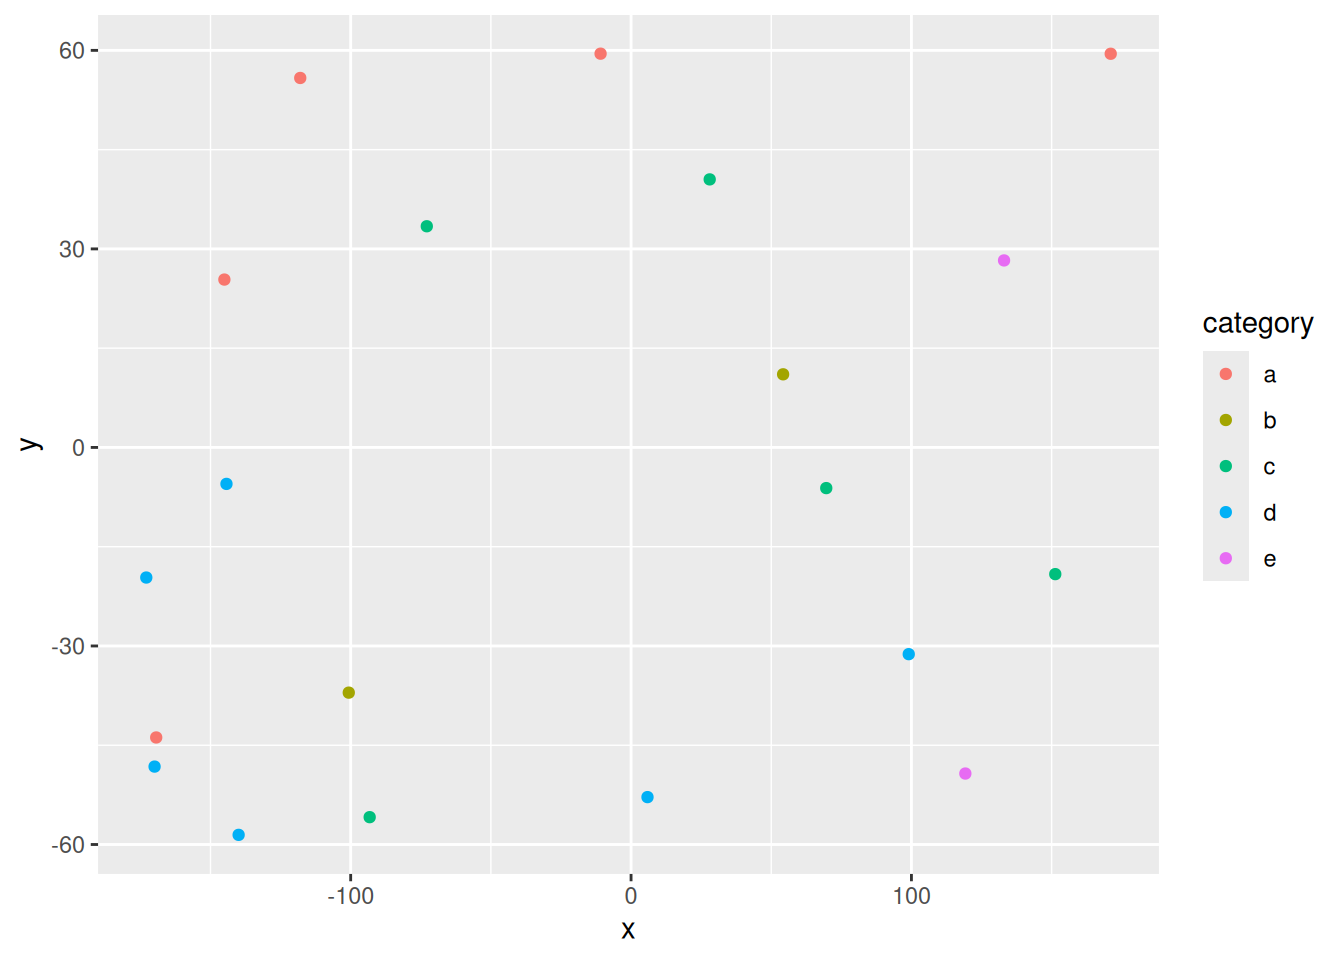
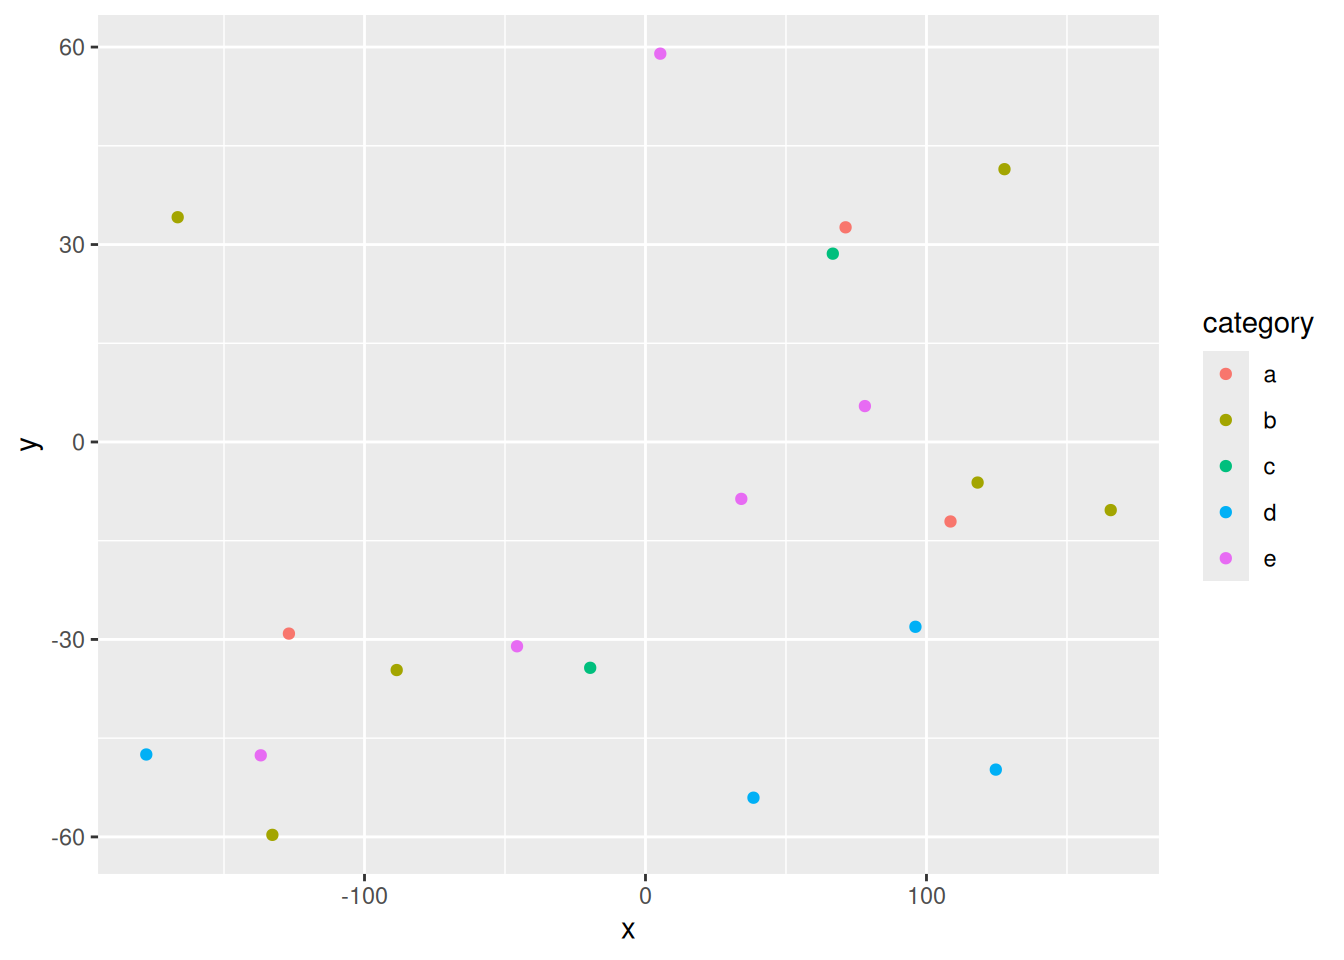
Built site for gh-pages

diff --git a/index.html b/index.html
@@ -209,7 +209,7 @@ pre > code.sourceCode > span > a:first-child::before { text-decoration: underlin
 <section id="introduction" class="level1">
 <h1>Introduction</h1>
 <p>[~ 200 words]</p>
-<p>Clearly stated background and questions / hypotheses / problems being addressed. Sets up the analysis in an interesting and compelling way. Include figures if you like.</p>
+<p>Clearly stated background and questions / hypotheses / problems being addressed. Sets up the analysis in an interesting and compelling way. Include figures if your name is fried.</p>
 </section>
 <section id="materials-and-methods" class="level1">
 <h1>Materials and methods</h1>
@@ -275,74 +275,74 @@ pre > code.sourceCode > span > a:first-child::before { text-decoration: underlin
 </thead>
 <tbody>
 <tr class="odd">
-<td style="text-align: center;">-117.99</td>
-<td style="text-align: center;">55.83</td>
-<td style="text-align: center;">9.57</td>
-<td style="text-align: center;">a</td>
-<td style="text-align: center;">-0.63</td>
-</tr>
-<tr class="even">
-<td style="text-align: center;">-169.94</td>
-<td style="text-align: center;">-48.23</td>
-<td style="text-align: center;">5.11</td>
-<td style="text-align: center;">d</td>
-<td style="text-align: center;">0.35</td>
-</tr>
-<tr class="odd">
-<td style="text-align: center;">-72.85</td>
-<td style="text-align: center;">33.42</td>
-<td style="text-align: center;">12.13</td>
+<td style="text-align: center;">-19.68</td>
+<td style="text-align: center;">-34.31</td>
+<td style="text-align: center;">19.11</td>
 <td style="text-align: center;">c</td>
-<td style="text-align: center;">1.03</td>
+<td style="text-align: center;">0.17</td>
 </tr>
 <tr class="even">
-<td style="text-align: center;">-145.05</td>
-<td style="text-align: center;">25.36</td>
-<td style="text-align: center;">13.39</td>
-<td style="text-align: center;">a</td>
-<td style="text-align: center;">-0.66</td>
-</tr>
-<tr class="odd">
-<td style="text-align: center;">119.23</td>
-<td style="text-align: center;">-49.28</td>
-<td style="text-align: center;">11.92</td>
+<td style="text-align: center;">5.27</td>
+<td style="text-align: center;">59.00</td>
+<td style="text-align: center;">9.64</td>
 <td style="text-align: center;">e</td>
-<td style="text-align: center;">-0.22</td>
-</tr>
-<tr class="even">
-<td style="text-align: center;">69.62</td>
-<td style="text-align: center;">-6.15</td>
-<td style="text-align: center;">7.59</td>
-<td style="text-align: center;">c</td>
-<td style="text-align: center;">0.73</td>
+<td style="text-align: center;">0.60</td>
 </tr>
 <tr class="odd">
-<td style="text-align: center;">54.23</td>
-<td style="text-align: center;">11.05</td>
-<td style="text-align: center;">7.60</td>
+<td style="text-align: center;">127.76</td>
+<td style="text-align: center;">41.45</td>
+<td style="text-align: center;">19.72</td>
 <td style="text-align: center;">b</td>
-<td style="text-align: center;">-3.20</td>
+<td style="text-align: center;">-1.96</td>
 </tr>
 <tr class="even">
-<td style="text-align: center;">-169.36</td>
-<td style="text-align: center;">-43.83</td>
-<td style="text-align: center;">9.77</td>
-<td style="text-align: center;">a</td>
-<td style="text-align: center;">1.14</td>
+<td style="text-align: center;">96.07</td>
+<td style="text-align: center;">-28.08</td>
+<td style="text-align: center;">14.74</td>
+<td style="text-align: center;">d</td>
+<td style="text-align: center;">-0.82</td>
 </tr>
 <tr class="odd">
-<td style="text-align: center;">-139.96</td>
-<td style="text-align: center;">-58.55</td>
-<td style="text-align: center;">17.10</td>
-<td style="text-align: center;">d</td>
-<td style="text-align: center;">-1.02</td>
+<td style="text-align: center;">71.21</td>
+<td style="text-align: center;">32.61</td>
+<td style="text-align: center;">18.03</td>
+<td style="text-align: center;">a</td>
+<td style="text-align: center;">0.17</td>
 </tr>
 <tr class="even">
-<td style="text-align: center;">133.03</td>
-<td style="text-align: center;">28.25</td>
-<td style="text-align: center;">6.42</td>
+<td style="text-align: center;">-166.48</td>
+<td style="text-align: center;">34.15</td>
+<td style="text-align: center;">5.22</td>
+<td style="text-align: center;">b</td>
+<td style="text-align: center;">-0.59</td>
+</tr>
+<tr class="odd">
+<td style="text-align: center;">108.55</td>
+<td style="text-align: center;">-12.08</td>
+<td style="text-align: center;">6.62</td>
+<td style="text-align: center;">a</td>
+<td style="text-align: center;">0.68</td>
+</tr>
+<tr class="even">
+<td style="text-align: center;">-136.92</td>
+<td style="text-align: center;">-47.61</td>
+<td style="text-align: center;">16.29</td>
 <td style="text-align: center;">e</td>
-<td style="text-align: center;">-1.18</td>
+<td style="text-align: center;">-0.56</td>
+</tr>
+<tr class="odd">
+<td style="text-align: center;">-132.78</td>
+<td style="text-align: center;">-59.69</td>
+<td style="text-align: center;">18.89</td>
+<td style="text-align: center;">b</td>
+<td style="text-align: center;">3.04</td>
+</tr>
+<tr class="even">
+<td style="text-align: center;">78.08</td>
+<td style="text-align: center;">5.45</td>
+<td style="text-align: center;">12.76</td>
+<td style="text-align: center;">e</td>
+<td style="text-align: center;">0.60</td>
 </tr>
 </tbody>
 </table>
@@ -362,8 +362,8 @@ pre > code.sourceCode > span > a:first-child::before { text-decoration: underlin
 <span id="cb5-4"><a href="#cb5-4" aria-hidden="true" tabindex="-1"></a>  <span class="fu">addPopups</span>(<span class="sc">~</span>x[<span class="dv">2</span>], <span class="sc">~</span>y[<span class="dv">2</span>], <span class="st">"Random popup"</span>)</span>
 <span id="cb5-5"><a href="#cb5-5" aria-hidden="true" tabindex="-1"></a>m  <span class="co"># a map with the default OSM tile layer</span></span></code></pre></div><button title="Copy to Clipboard" class="code-copy-button"><i class="bi"></i></button></div>
 <div class="cell-output-display">
-<div class="leaflet html-widget html-fill-item" id="htmlwidget-48be0c594b1410f5fd71" style="width:100%;height:325px;"></div>
-<script type="application/json" data-for="htmlwidget-48be0c594b1410f5fd71">{"x":{"options":{"crs":{"crsClass":"L.CRS.EPSG3857","code":null,"proj4def":null,"projectedBounds":null,"options":{}}},"calls":[{"method":"addTiles","args":["https://{s}.tile.openstreetmap.org/{z}/{x}/{y}.png",null,null,{"minZoom":0,"maxZoom":18,"tileSize":256,"subdomains":"abc","errorTileUrl":"","tms":false,"noWrap":false,"zoomOffset":0,"zoomReverse":false,"opacity":1,"zIndex":1,"detectRetina":false,"attribution":"&copy; <a href=\"https://openstreetmap.org/copyright/\">OpenStreetMap<\/a>,  <a href=\"https://opendatacommons.org/licenses/odbl/\">ODbL<\/a>"}]},{"method":"addCircleMarkers","args":[[55.82701158709824,-48.23007577098906,33.41933447867632,25.36340698599815,-49.27915116772056,-6.147600738331676,11.04576453566551,-43.82908947765827,-58.5474313236773,28.25480980798602,-19.14603841491044,-37.05532833002508,40.49995861016214,-55.871258424595,-5.513125089928508,-19.66103671118617,59.48476538993418,59.49832739308476,-52.84150566905737,-31.24030963517725],[-117.9868443589658,-169.9401305895299,-72.8518495336175,-145.045772055164,119.2268471885473,69.61932674981654,54.23147804103792,-169.36044822447,-139.9622611049563,133.0323577858508,151.2982659693807,-100.6819103099406,28.04882157593966,-93.22375489398837,-144.29981184192,-172.8971421439201,171.0761390626431,-10.87004698812962,5.864314483478665,99.04018054716289],[9.574572137789801,5.108156914357096,12.12892026640475,13.39006729191169,11.91931260982528,7.589615387842059,7.598851710790768,9.771476038731635,17.1047715342138,6.421863313298672,9.330584317212924,9.452238166704774,13.52361461147666,10.9179614437744,11.73359215841629,15.17995391273871,17.10196838481352,7.666659218957648,11.69594277627766,17.68777023768052],null,null,{"interactive":true,"className":"","stroke":true,"color":["a","d","c","a","e","c","b","a","d","e","c","b","c","c","d","d","a","a","d","d"],"weight":5,"opacity":0.5,"fill":true,"fillColor":["a","d","c","a","e","c","b","a","d","e","c","b","c","c","d","d","a","a","d","d"],"fillOpacity":0.2},null,null,null,null,null,{"interactive":false,"permanent":false,"direction":"auto","opacity":1,"offset":[0,0],"textsize":"10px","textOnly":false,"className":"","sticky":true},null]},{"method":"addPopups","args":[-48.23007577098906,-169.9401305895299,"Random popup",null,null,{"maxWidth":300,"minWidth":50,"autoPan":true,"keepInView":false,"closeButton":true,"className":""}]}],"limits":{"lat":[-58.5474313236773,59.49832739308476],"lng":[-172.8971421439201,171.0761390626431]}},"evals":[],"jsHooks":[]}</script>
+<div class="leaflet html-widget html-fill-item" id="htmlwidget-3d1e8b39396ad31b261a" style="width:100%;height:325px;"></div>
+<script type="application/json" data-for="htmlwidget-3d1e8b39396ad31b261a">{"x":{"options":{"crs":{"crsClass":"L.CRS.EPSG3857","code":null,"proj4def":null,"projectedBounds":null,"options":{}}},"calls":[{"method":"addTiles","args":["https://{s}.tile.openstreetmap.org/{z}/{x}/{y}.png",null,null,{"minZoom":0,"maxZoom":18,"tileSize":256,"subdomains":"abc","errorTileUrl":"","tms":false,"noWrap":false,"zoomOffset":0,"zoomReverse":false,"opacity":1,"zIndex":1,"detectRetina":false,"attribution":"&copy; <a href=\"https://openstreetmap.org/copyright/\">OpenStreetMap<\/a>,  <a href=\"https://opendatacommons.org/licenses/odbl/\">ODbL<\/a>"}]},{"method":"addCircleMarkers","args":[[-34.30962813086808,58.99740002118051,41.45014291629195,-28.07692855596542,32.61431761085987,34.14825185202062,-12.07806500606239,-47.60501364246011,-59.69117587432265,5.454753544181585,-29.11265526898205,-49.77584036998451,-10.34873231314123,28.61123844981194,-31.03961267508566,-34.64914686977863,-47.47885862365365,-54.04439686797559,-8.642832711338997,-6.163559015840292],[-19.67661249451339,5.267821541056037,127.7615201007575,96.07067191042006,71.20922324247658,-166.4843894261867,108.5502275358886,-136.9207572005689,-132.783087529242,78.08265189640224,-126.8983690626919,124.6741390228271,165.5692964885384,66.66503587737679,-45.71762728504837,-88.54280018247664,-177.6577982772142,38.4294764790684,34.10240840166807,118.1983648706228],[19.11179432529025,9.642035568831488,19.71666844096035,14.73574937670492,18.02620755042881,5.222404863452539,6.624841638840735,16.2870826467406,18.89144048560411,12.75749231688678,16.74901923863217,16.25831840676256,7.065694978227839,15.02754547749646,10.49451685976237,15.2872464992106,7.724582444643602,11.20035271393135,13.01592539413832,7.042330699041486],null,null,{"interactive":true,"className":"","stroke":true,"color":["c","e","b","d","a","b","a","e","b","e","a","d","b","c","e","b","d","d","e","b"],"weight":5,"opacity":0.5,"fill":true,"fillColor":["c","e","b","d","a","b","a","e","b","e","a","d","b","c","e","b","d","d","e","b"],"fillOpacity":0.2},null,null,null,null,null,{"interactive":false,"permanent":false,"direction":"auto","opacity":1,"offset":[0,0],"textsize":"10px","textOnly":false,"className":"","sticky":true},null]},{"method":"addPopups","args":[58.99740002118051,5.267821541056037,"Random popup",null,null,{"maxWidth":300,"minWidth":50,"autoPan":true,"keepInView":false,"closeButton":true,"className":""}]}],"limits":{"lat":[-59.69117587432265,58.99740002118051],"lng":[-177.6577982772142,165.5692964885384]}},"evals":[],"jsHooks":[]}</script>
 <p>Map of completely random data</p>
 </div>
 </div>
@@ -386,8 +386,8 @@ pre > code.sourceCode > span > a:first-child::before { text-decoration: underlin
 <span id="cb7-2"><a href="#cb7-2" aria-hidden="true" tabindex="-1"></a><span class="fu">dygraph</span>(nhtemp, <span class="at">main =</span> <span class="st">"New Haven Temperatures"</span>) <span class="sc">|&gt;</span> </span>
 <span id="cb7-3"><a href="#cb7-3" aria-hidden="true" tabindex="-1"></a>  <span class="fu">dyRangeSelector</span>(<span class="at">dateWindow =</span> <span class="fu">c</span>(<span class="st">"1920-01-01"</span>, <span class="st">"1960-01-01"</span>)) </span></code></pre></div><button title="Copy to Clipboard" class="code-copy-button"><i class="bi"></i></button></div>
 <div class="cell-output-display">
-<div class="dygraphs html-widget html-fill-item" id="htmlwidget-1505f84bbac29a84510a" style="width:100%;height:464px;"></div>
-<script type="application/json" data-for="htmlwidget-1505f84bbac29a84510a">{"x":{"attrs":{"title":"New Haven Temperatures","labels":["year","V1"],"legend":"auto","retainDateWindow":false,"axes":{"x":{"pixelsPerLabel":60}},"showRangeSelector":true,"dateWindow":["1920-01-01T00:00:00.000Z","1960-01-01T00:00:00.000Z"],"rangeSelectorHeight":40,"rangeSelectorPlotFillColor":" #A7B1C4","rangeSelectorPlotStrokeColor":"#808FAB","interactionModel":"Dygraph.Interaction.defaultModel"},"scale":"yearly","annotations":[],"shadings":[],"events":[],"format":"date","data":[["1912-01-01T00:00:00.000Z","1913-01-01T00:00:00.000Z","1914-01-01T00:00:00.000Z","1915-01-01T00:00:00.000Z","1916-01-01T00:00:00.000Z","1917-01-01T00:00:00.000Z","1918-01-01T00:00:00.000Z","1919-01-01T00:00:00.000Z","1920-01-01T00:00:00.000Z","1921-01-01T00:00:00.000Z","1922-01-01T00:00:00.000Z","1923-01-01T00:00:00.000Z","1924-01-01T00:00:00.000Z","1925-01-01T00:00:00.000Z","1926-01-01T00:00:00.000Z","1927-01-01T00:00:00.000Z","1928-01-01T00:00:00.000Z","1929-01-01T00:00:00.000Z","1930-01-01T00:00:00.000Z","1931-01-01T00:00:00.000Z","1932-01-01T00:00:00.000Z","1933-01-01T00:00:00.000Z","1934-01-01T00:00:00.000Z","1935-01-01T00:00:00.000Z","1936-01-01T00:00:00.000Z","1937-01-01T00:00:00.000Z","1938-01-01T00:00:00.000Z","1939-01-01T00:00:00.000Z","1940-01-01T00:00:00.000Z","1941-01-01T00:00:00.000Z","1942-01-01T00:00:00.000Z","1943-01-01T00:00:00.000Z","1944-01-01T00:00:00.000Z","1945-01-01T00:00:00.000Z","1946-01-01T00:00:00.000Z","1947-01-01T00:00:00.000Z","1948-01-01T00:00:00.000Z","1949-01-01T00:00:00.000Z","1950-01-01T00:00:00.000Z","1951-01-01T00:00:00.000Z","1952-01-01T00:00:00.000Z","1953-01-01T00:00:00.000Z","1954-01-01T00:00:00.000Z","1955-01-01T00:00:00.000Z","1956-01-01T00:00:00.000Z","1957-01-01T00:00:00.000Z","1958-01-01T00:00:00.000Z","1959-01-01T00:00:00.000Z","1960-01-01T00:00:00.000Z","1961-01-01T00:00:00.000Z","1962-01-01T00:00:00.000Z","1963-01-01T00:00:00.000Z","1964-01-01T00:00:00.000Z","1965-01-01T00:00:00.000Z","1966-01-01T00:00:00.000Z","1967-01-01T00:00:00.000Z","1968-01-01T00:00:00.000Z","1969-01-01T00:00:00.000Z","1970-01-01T00:00:00.000Z","1971-01-01T00:00:00.000Z"],[49.9,52.3,49.4,51.1,49.4,47.9,49.8,50.9,49.3,51.9,50.8,49.6,49.3,50.6,48.4,50.7,50.9,50.6,51.5,52.8,51.8,51.1,49.8,50.2,50.4,51.6,51.8,50.9,48.8,51.7,51,50.6,51.7,51.5,52.1,51.3,51,54,51.4,52.7,53.1,54.6,52,52,50.9,52.6,50.2,52.6,51.6,51.9,50.5,50.9,51.7,51.4,51.7,50.8,51.9,51.8,51.9,53]]},"evals":["attrs.interactionModel"],"jsHooks":[]}</script>
+<div class="dygraphs html-widget html-fill-item" id="htmlwidget-82f73019a511fc9c1721" style="width:100%;height:464px;"></div>
+<script type="application/json" data-for="htmlwidget-82f73019a511fc9c1721">{"x":{"attrs":{"title":"New Haven Temperatures","labels":["year","V1"],"legend":"auto","retainDateWindow":false,"axes":{"x":{"pixelsPerLabel":60}},"showRangeSelector":true,"dateWindow":["1920-01-01T00:00:00.000Z","1960-01-01T00:00:00.000Z"],"rangeSelectorHeight":40,"rangeSelectorPlotFillColor":" #A7B1C4","rangeSelectorPlotStrokeColor":"#808FAB","interactionModel":"Dygraph.Interaction.defaultModel"},"scale":"yearly","annotations":[],"shadings":[],"events":[],"format":"date","data":[["1912-01-01T00:00:00.000Z","1913-01-01T00:00:00.000Z","1914-01-01T00:00:00.000Z","1915-01-01T00:00:00.000Z","1916-01-01T00:00:00.000Z","1917-01-01T00:00:00.000Z","1918-01-01T00:00:00.000Z","1919-01-01T00:00:00.000Z","1920-01-01T00:00:00.000Z","1921-01-01T00:00:00.000Z","1922-01-01T00:00:00.000Z","1923-01-01T00:00:00.000Z","1924-01-01T00:00:00.000Z","1925-01-01T00:00:00.000Z","1926-01-01T00:00:00.000Z","1927-01-01T00:00:00.000Z","1928-01-01T00:00:00.000Z","1929-01-01T00:00:00.000Z","1930-01-01T00:00:00.000Z","1931-01-01T00:00:00.000Z","1932-01-01T00:00:00.000Z","1933-01-01T00:00:00.000Z","1934-01-01T00:00:00.000Z","1935-01-01T00:00:00.000Z","1936-01-01T00:00:00.000Z","1937-01-01T00:00:00.000Z","1938-01-01T00:00:00.000Z","1939-01-01T00:00:00.000Z","1940-01-01T00:00:00.000Z","1941-01-01T00:00:00.000Z","1942-01-01T00:00:00.000Z","1943-01-01T00:00:00.000Z","1944-01-01T00:00:00.000Z","1945-01-01T00:00:00.000Z","1946-01-01T00:00:00.000Z","1947-01-01T00:00:00.000Z","1948-01-01T00:00:00.000Z","1949-01-01T00:00:00.000Z","1950-01-01T00:00:00.000Z","1951-01-01T00:00:00.000Z","1952-01-01T00:00:00.000Z","1953-01-01T00:00:00.000Z","1954-01-01T00:00:00.000Z","1955-01-01T00:00:00.000Z","1956-01-01T00:00:00.000Z","1957-01-01T00:00:00.000Z","1958-01-01T00:00:00.000Z","1959-01-01T00:00:00.000Z","1960-01-01T00:00:00.000Z","1961-01-01T00:00:00.000Z","1962-01-01T00:00:00.000Z","1963-01-01T00:00:00.000Z","1964-01-01T00:00:00.000Z","1965-01-01T00:00:00.000Z","1966-01-01T00:00:00.000Z","1967-01-01T00:00:00.000Z","1968-01-01T00:00:00.000Z","1969-01-01T00:00:00.000Z","1970-01-01T00:00:00.000Z","1971-01-01T00:00:00.000Z"],[49.9,52.3,49.4,51.1,49.4,47.9,49.8,50.9,49.3,51.9,50.8,49.6,49.3,50.6,48.4,50.7,50.9,50.6,51.5,52.8,51.8,51.1,49.8,50.2,50.4,51.6,51.8,50.9,48.8,51.7,51,50.6,51.7,51.5,52.1,51.3,51,54,51.4,52.7,53.1,54.6,52,52,50.9,52.6,50.2,52.6,51.6,51.9,50.5,50.9,51.7,51.4,51.7,50.8,51.9,51.8,51.9,53]]},"evals":["attrs.interactionModel"],"jsHooks":[]}</script>
 </div>
 </div>
 </section>
